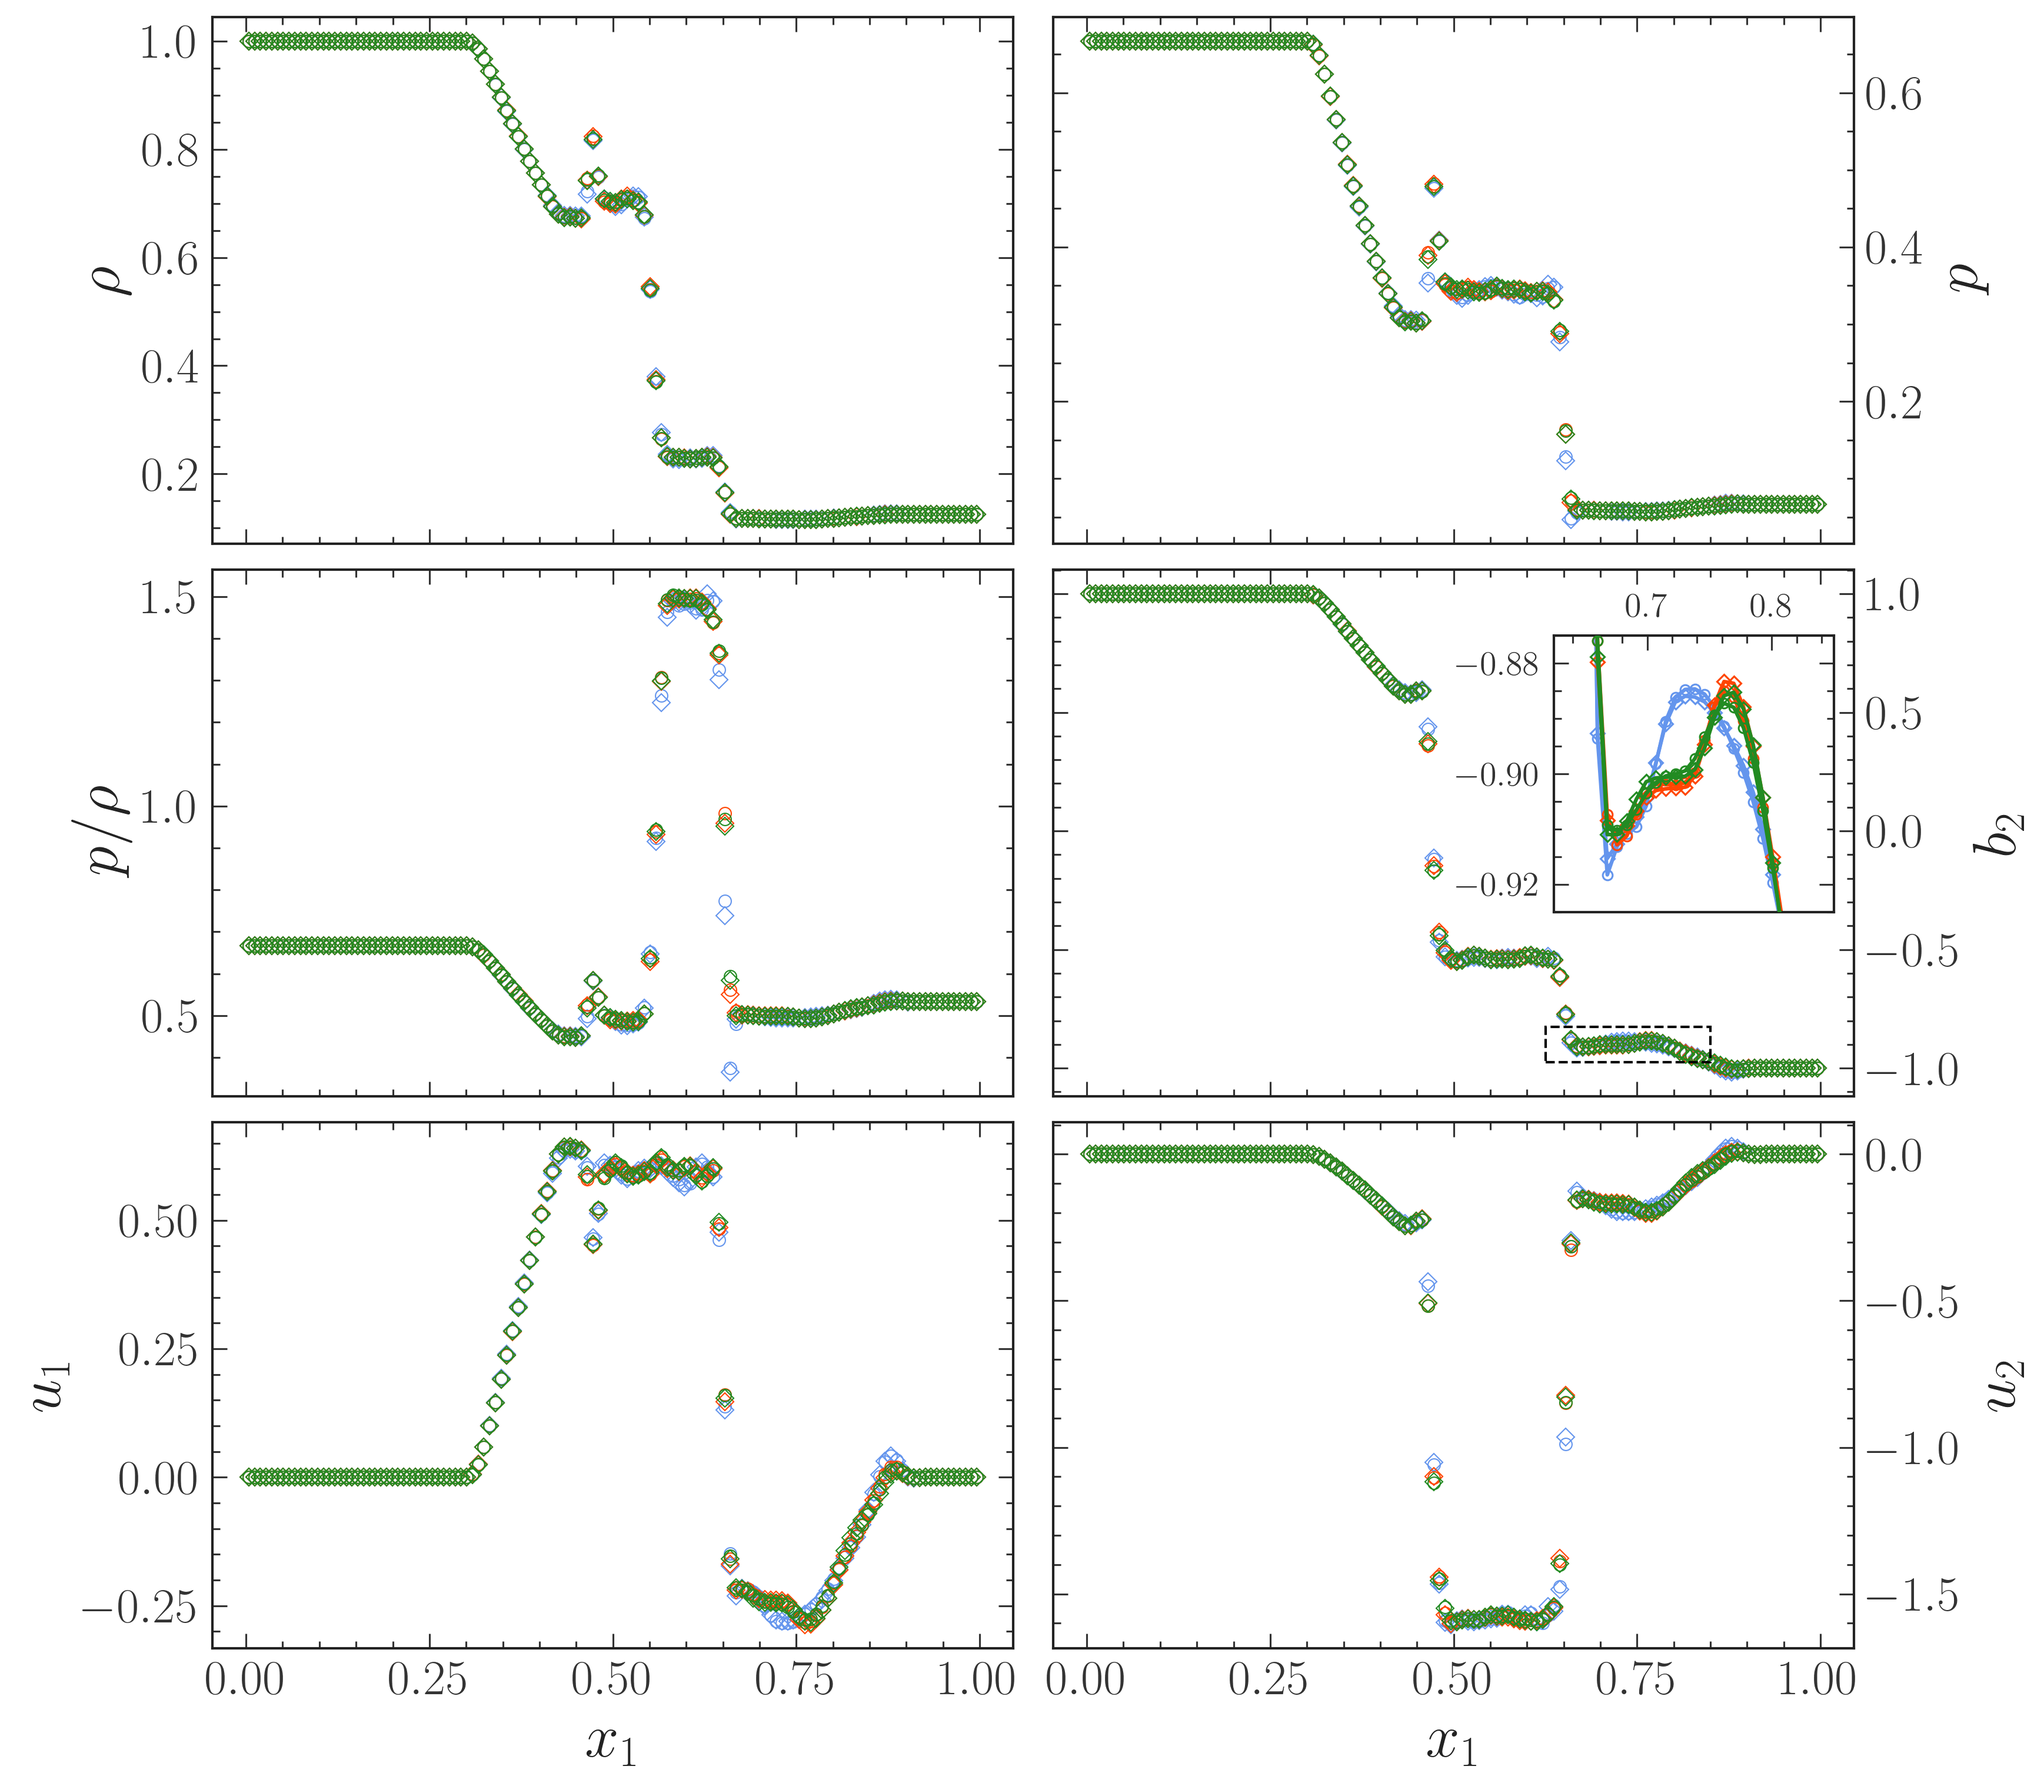
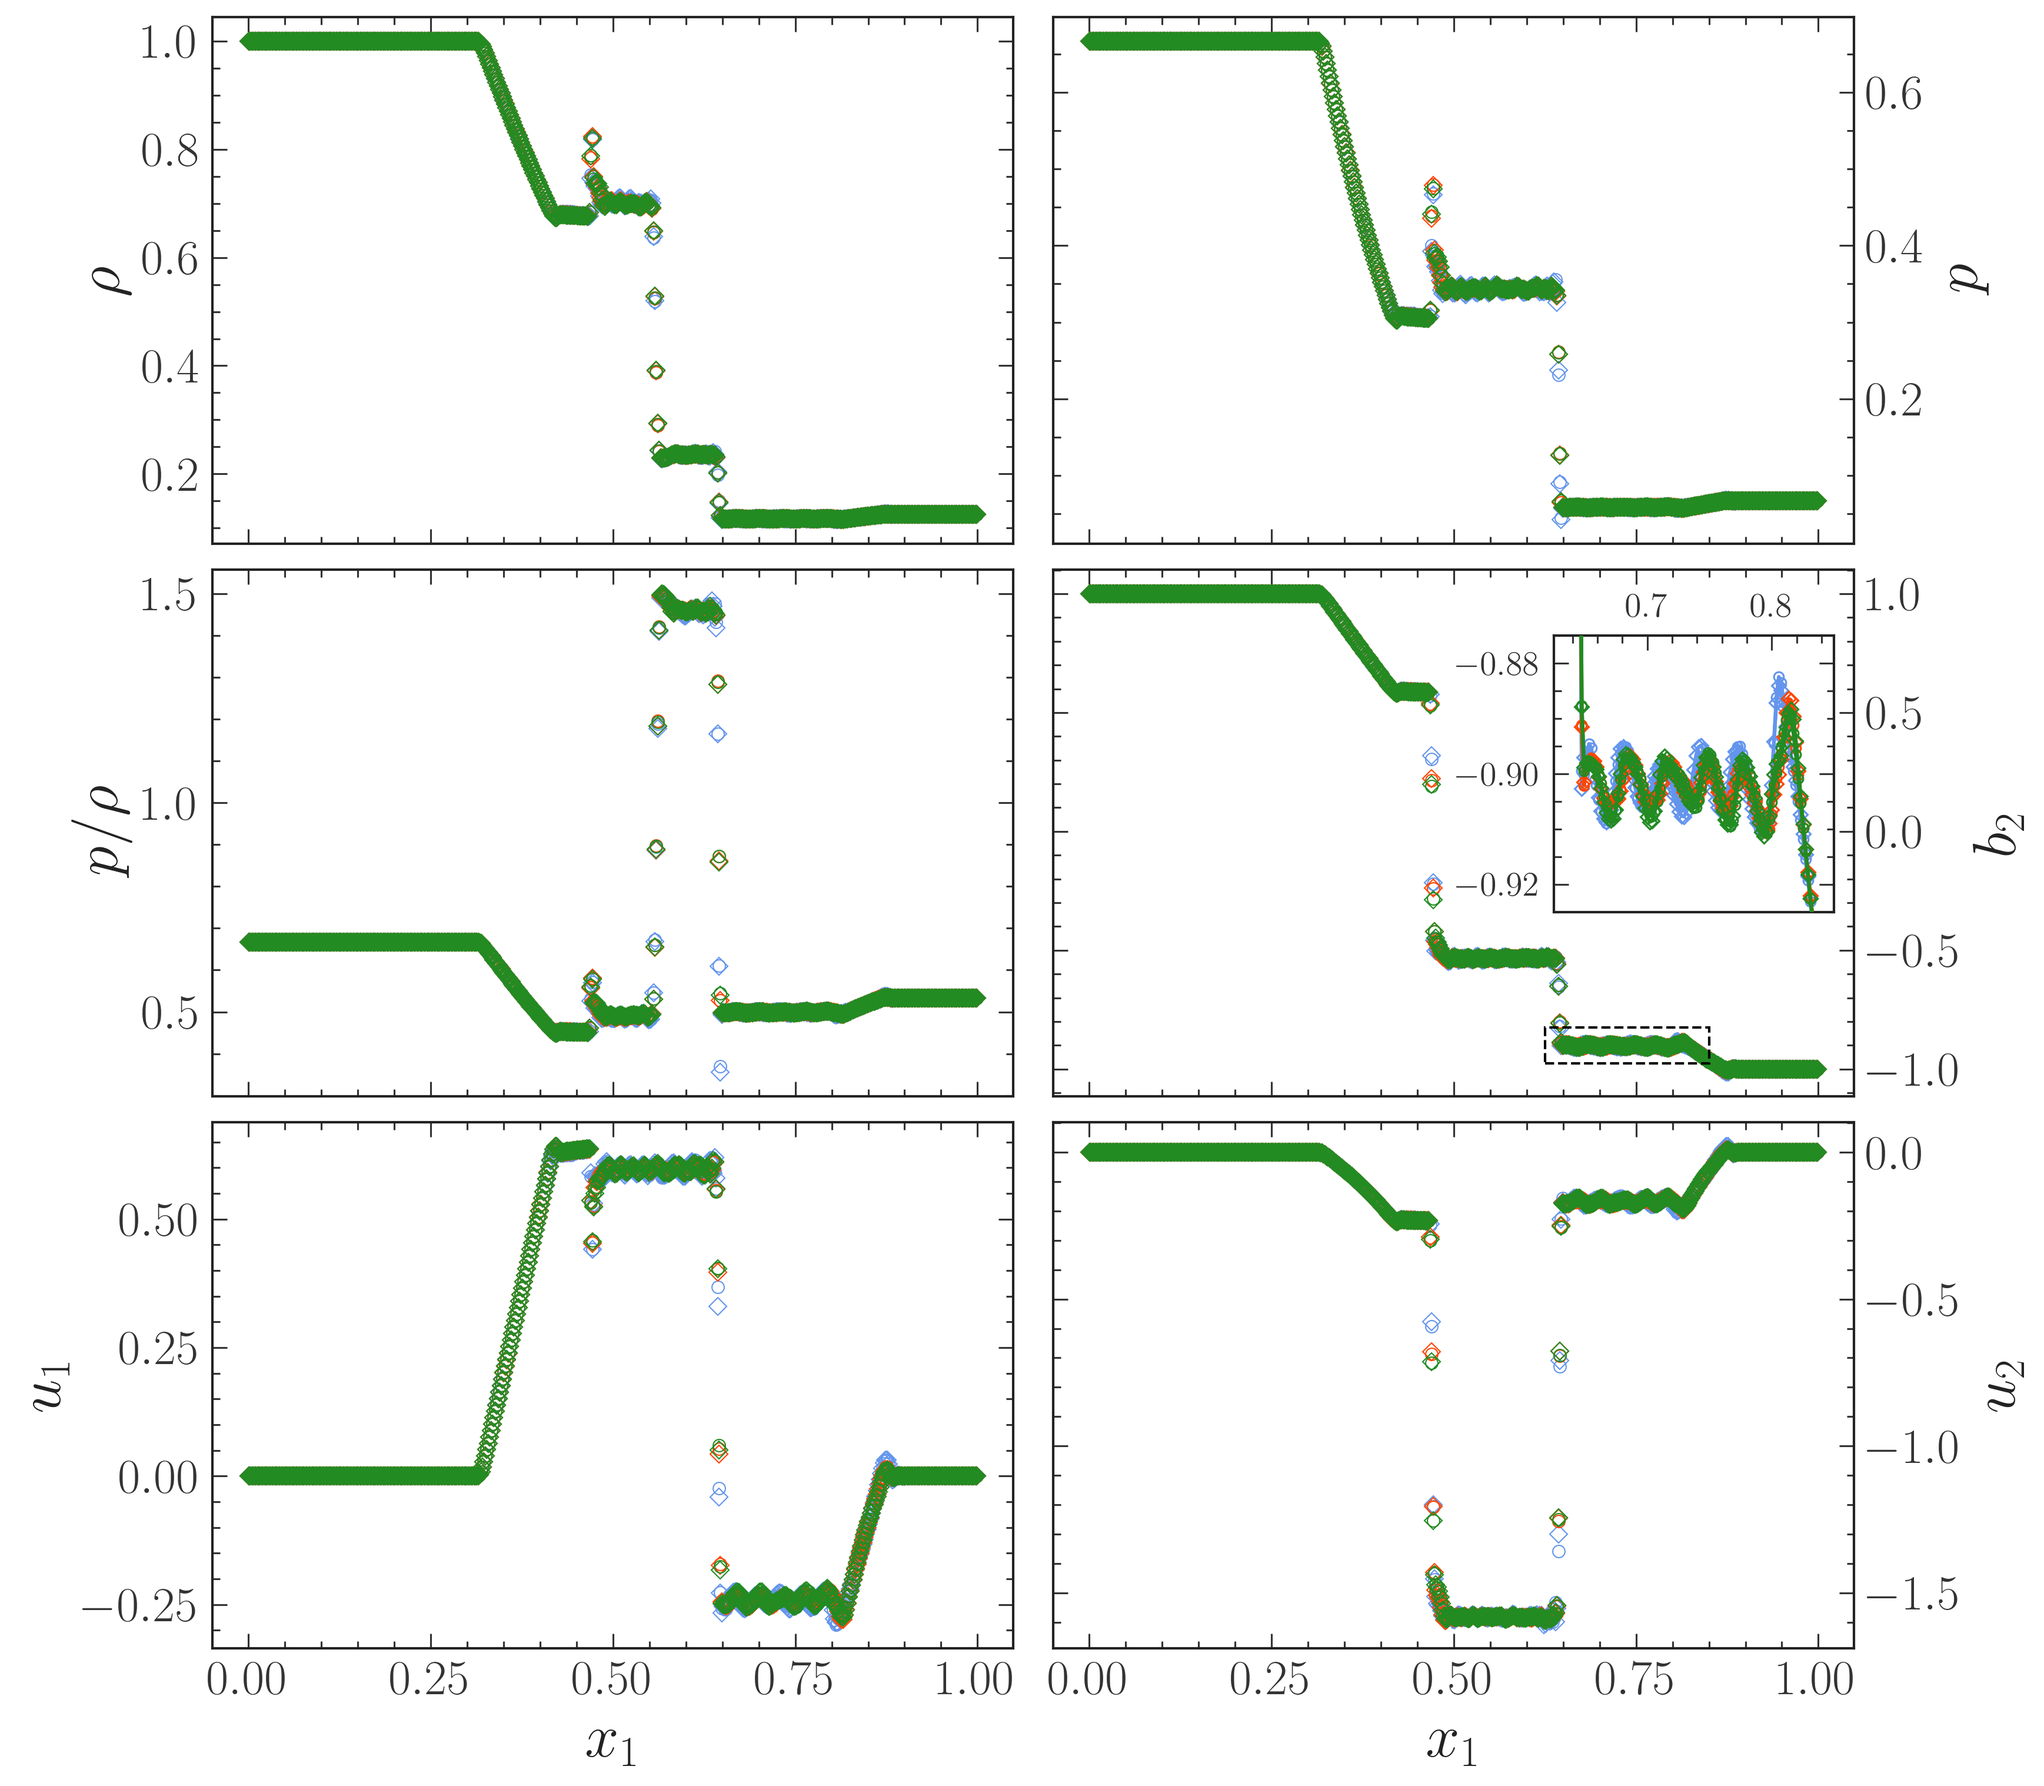
fix(plot_brio_wu_shock_tube.py): load profiles from derived/ subdirectory; regenerate figure.

diff --git a/scripts/problems/brio_wu_shock_tube/plot_brio_wu_shock_tube.py b/scripts/problems/brio_wu_shock_tube/plot_brio_wu_shock_tube.py
@@ -70,7 +70,7 @@ def main():
     for emf_scheme in ["fs18", "b25", "q26"]:
         for ave_scheme in ["ld04", "b25"]:
             scheme_name = f"{emf_scheme}-{ave_scheme}"
-            data_dir = base_dir / scheme_name
+            data_dir = base_dir / scheme_name / "derived"
             plot_args = dict(
                 color=color_map[emf_scheme],
                 marker=marker_map[ave_scheme],
